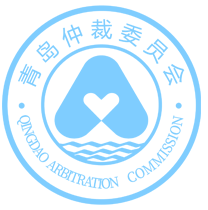
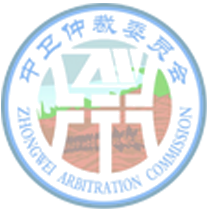
'_png'

diff --git a/index.html b/index.html
@@ -4,7 +4,7 @@
     <meta charset="utf-8">
     <meta http-equiv="X-UA-Compatible" content="IE=edge,chrome=1">
     <meta name="viewport" content="width=device-width,initial-scale=1.0">
-    <title>青岛仲裁委网络办案系统</title>
+    <title>中卫仲裁委网络办案系统</title>
     <link rel="shortcut icon" href="./static/images/logoI.ico" type="image/x-icon">
   </head>
   <body>
